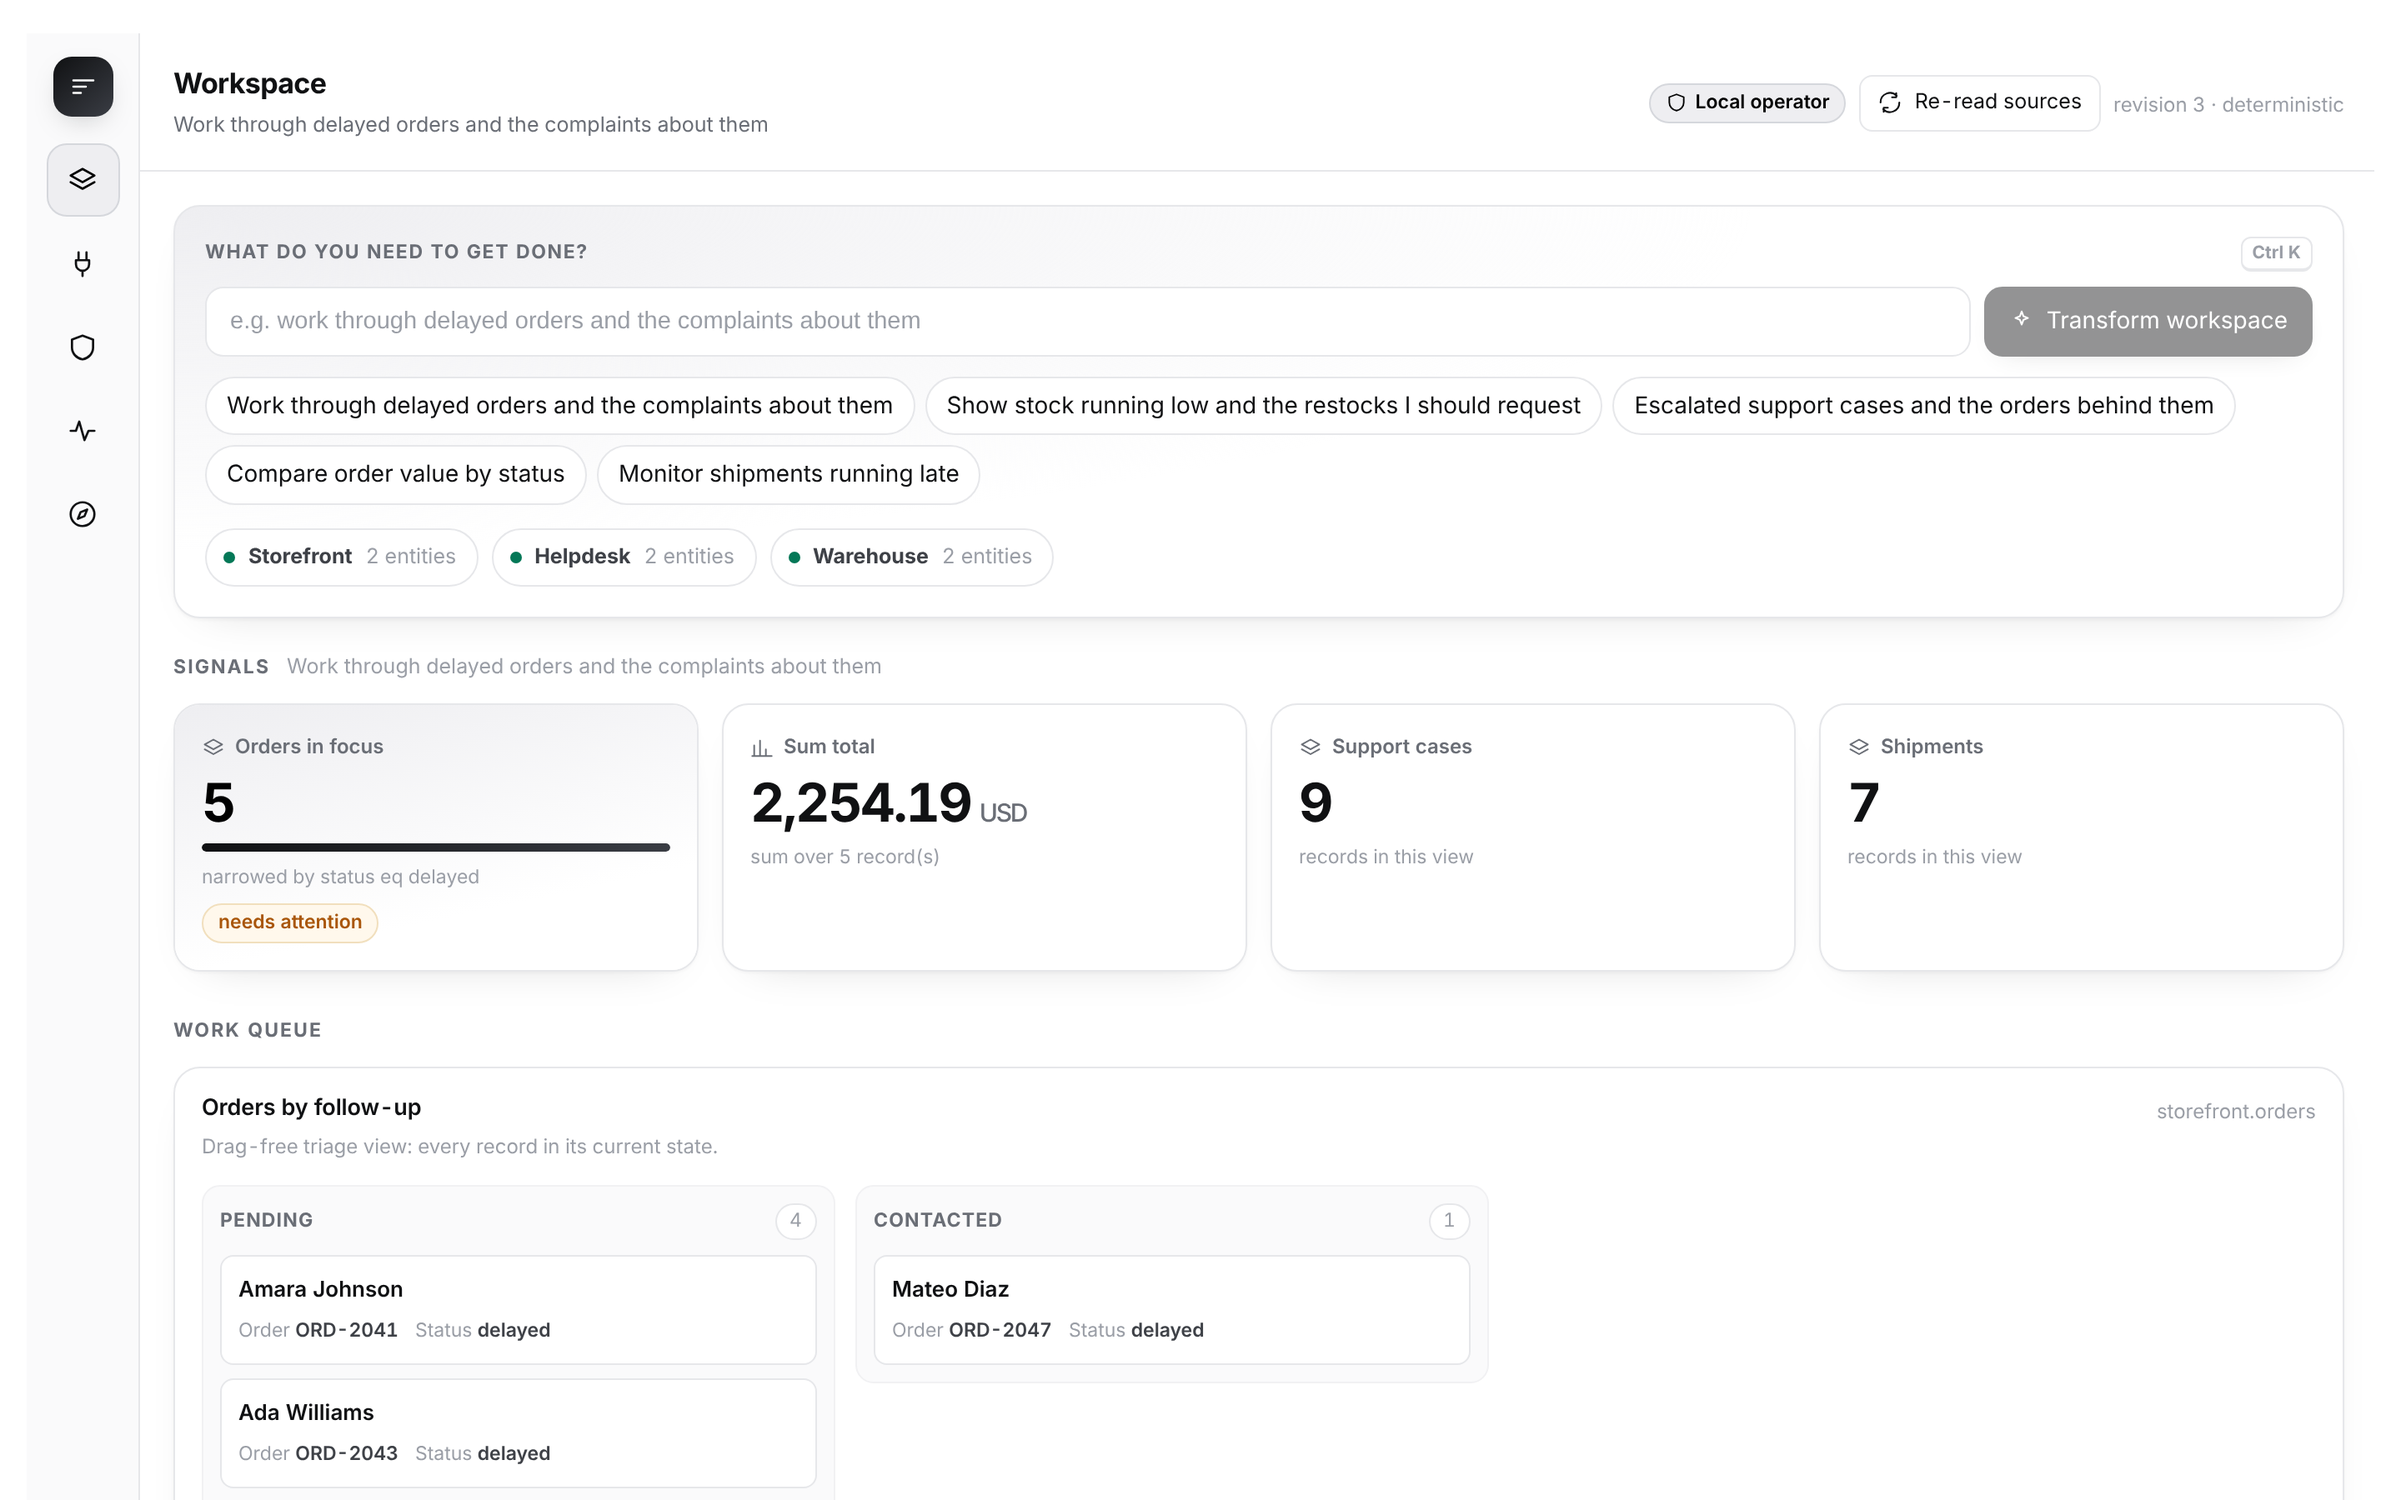
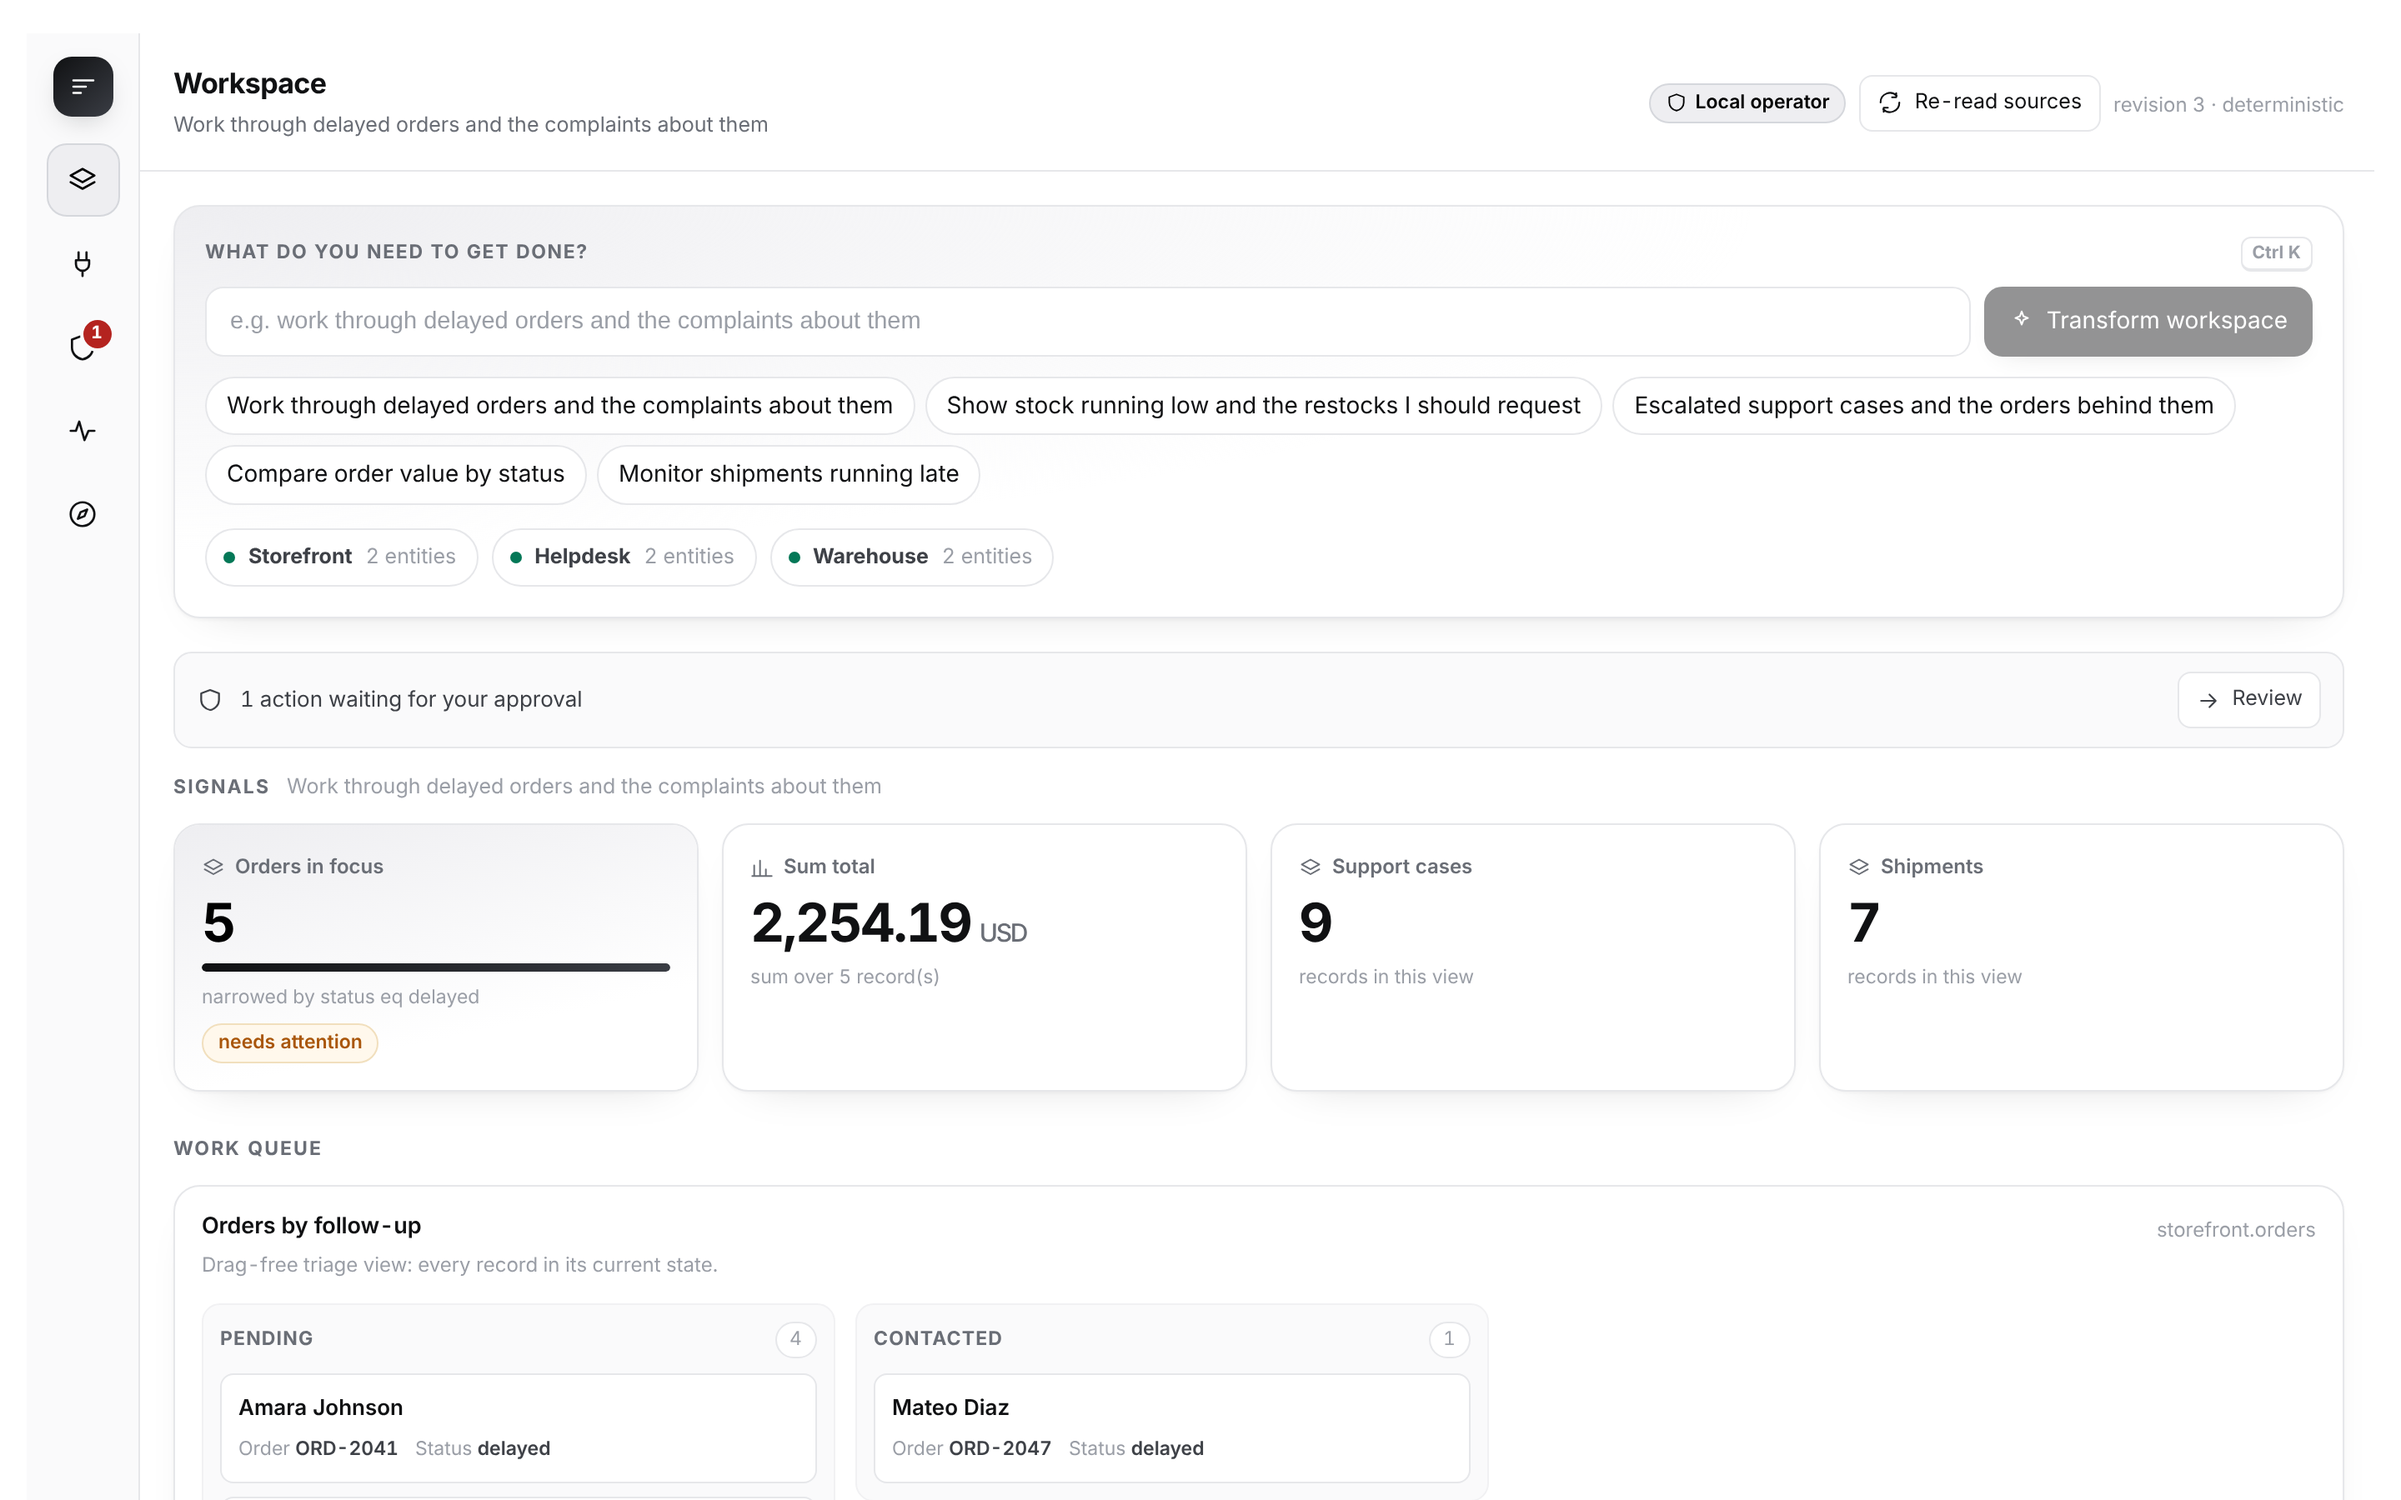
Refresh listing assets and add the catalog submission kit
- Recapture every screenshot from the current bundle. The hero is the
  Approvals view in the real Hermes dashboard; the catalog card is the
  same view, since a change waiting for a person is the point.
- capture_assets.cjs no longer depends on prior state: it composes the
  workspace and leaves one proposal pending through the UI.
- docs/SUBMISSION.md walks through the catalog PR; docs/CATALOG_PR.md is
  the PR description, following the hermes-agent template, with the
  rule 13 disclosures. prepare_catalog_entry.py stamps both with the SHA.

Claude-Session: https://claude.ai/code/session_018sJarubhtnJjhXULd1LRkV

diff --git a/scripts/prepare_catalog_entry.py b/scripts/prepare_catalog_entry.py
@@ -6,6 +6,7 @@ submission time is exactly when it gets done wrong, so:
 
     python scripts/prepare_catalog_entry.py            # uses HEAD, prints the entry
     python scripts/prepare_catalog_entry.py --write    # also writes plugin-catalog-morph.yaml
+                                                       # and plugin-catalog-pr-body.md
 
 Copy the output into hermes-agent as plugin-catalog/morph.yaml in your PR.
 It refuses to stamp a commit that is not pushed, because the catalog CI clones
@@ -85,6 +86,12 @@ def main(argv: list[str] | None = None) -> int:
         out = ROOT / "plugin-catalog-morph.yaml"
         out.write_text(text, encoding="utf-8")
         print(f"\n→ wrote {out}", file=sys.stderr)
+        template = ROOT / "docs" / "CATALOG_PR.md"
+        if template.is_file():
+            body = ROOT / "plugin-catalog-pr-body.md"
+            body.write_text(template.read_text(encoding="utf-8").replace("<sha>", sha),
+                            encoding="utf-8")
+            print(f"→ wrote {body} (paste it as the PR description)", file=sys.stderr)
     print(f"\n→ pinned {sha}", file=sys.stderr)
     print(f"→ open the PR against NousResearch/hermes-agent adding "
           f"plugin-catalog/morph.yaml", file=sys.stderr)

diff --git a/docs/CATALOG_PR.md b/docs/CATALOG_PR.md
@@ -1,0 +1,82 @@
+## What does this PR do?
+
+Adds one catalog entry, `plugin-catalog/morph.yaml`, for **MORPH** — an approval gate
+between the agent and the APIs it can write to.
+
+Connect a GitHub repository (`hermes morph connect github owner/name`) or any service
+that publishes an OpenAPI document. MORPH learns from the schema what can be read and
+what can be safely changed. The agent gets tools to read and to *propose*; a person
+approves each change in the dashboard, seeing the exact before and after; MORPH writes
+it, then re-reads the record from the API and reports it verified only if it matches
+what was promised. Every proposal, approval and result goes into a hash-chained log.
+
+I am the owner of the plugin repository (rule 5). Pinned commit:
+https://github.com/timioni001/morph-hermes/tree/<sha>
+
+**Hermes surfaces used** — all public: 7 tools (`ctx.register_tool`), 3 hooks
+(`on_session_start`, `pre_tool_call`, `post_tool_call`), a dashboard tab
+(`dashboard/manifest.json` + `plugin_api.py`), a `/morph` slash command, a
+`hermes morph` CLI command, a system prompt section and 3 skills. No middleware, no
+Desktop plugin, no core overrides, no Python dependencies of its own.
+
+**Disclosures (rule 13)**
+
+- **Network** — outbound HTTPS only to the services the operator connects, including
+  `api.github.com` when a repository is connected. Hosts are allowlisted; private,
+  link-local, reserved and cloud-metadata addresses are refused and re-checked at
+  connect time; loopback needs an explicit opt-in; redirects are never followed.
+- **Credentials (rule 11)** — configuration stores environment-variable *names* only.
+  Tokens are read with `agent.secret_scope.get_secret` at call time and never logged,
+  stored or returned. MORPH never reads `.env`, `auth.json` or any credential store.
+  For the optional offline sandbox, `hermes morph up` stores the practice services'
+  locally generated tokens through the published `save_env_values` helper.
+- **Approvals (rule 12)** — MORPH adds an approval step of its own and does not touch
+  Hermes's. There is no tool that approves; the agent is never given the confirmation
+  token; `hermes morph approve` refuses without an interactive terminal, so it cannot
+  be driven from cron or the gateway.
+- **Background processes** — none by default. Only if the operator runs
+  `hermes morph connect sandbox` and then `hermes morph up`, three practice services
+  bundled in the repository start on loopback.
+- **Model use** — interface planning calls the host model through `ctx.llm` with schema
+  only, never a record value, and falls back to a deterministic composer.
+- **Stored data** — connection list, workspaces, pending proposals, read cursors and
+  the audit log, all in the plugin data directory. Nothing is read outside it.
+- **Telemetry** — none. **Shell commands** — none. **Self-updating code** — none.
+
+## Related Issue
+
+None — new catalog entry.
+
+## Type of Change
+
+- [x] ✨ New feature (non-breaking change that adds functionality)
+
+## Changes Made
+
+- `plugin-catalog/morph.yaml` — new entry, pinned to `<sha>`.
+
+## How to Test
+
+1. `git clone https://github.com/timioni001/morph-hermes && cd morph-hermes && git checkout <sha>`
+2. `hermes plugins validate . --install-deps` — passes, `security scan — safe`.
+3. `ln -s "$PWD" ~/.hermes/plugins/morph && hermes plugins enable morph`
+4. `hermes morph connect sandbox && hermes morph up`, then `hermes dashboard` → **MORPH**.
+   Propose a change from the Workspace view, approve it under **Approvals**, and see it
+   verified. (Or `hermes morph connect github owner/name` with a `GITHUB_TOKEN`.)
+
+Tested on Linux, Hermes Agent v0.23.0.
+
+## Checklist
+
+- [x] I searched existing PRs and catalog entries; there is no `morph` entry.
+- [x] This PR contains only the one catalog file.
+- [x] `hermes plugins validate --install-deps` passes at the pinned commit.
+- [x] `requires_hermes` (`>=0.19`) is declared in both the entry and `plugin.yaml`.
+- [x] The `capabilities:` block matches what the plugin registers at the pinned commit.
+
+## Screenshots / Logs
+
+![Approvals inside the Hermes dashboard](https://raw.githubusercontent.com/timioni001/morph-hermes/<sha>/docs/assets/morph-in-hermes.png)
+![Workspace](https://raw.githubusercontent.com/timioni001/morph-hermes/<sha>/docs/assets/workspace.png)
+![Connections](https://raw.githubusercontent.com/timioni001/morph-hermes/<sha>/docs/assets/connections.png)
+![Activity](https://raw.githubusercontent.com/timioni001/morph-hermes/<sha>/docs/assets/activity.png)

diff --git a/docs/SUBMISSION.md b/docs/SUBMISSION.md
@@ -1,0 +1,41 @@
+# Submitting MORPH
+
+Three things go out: the catalog PR, the demo video, and the hackathon form.
+
+## 1. The catalog PR
+
+The rules are in Hermes's own docs:
+[Submitting to the plugin catalog](https://hermes-agent.nousresearch.com/docs/developer-guide/plugins/catalog-submission)
+and `plugin-catalog/README.md` in `NousResearch/hermes-agent`. In short: one YAML file,
+a full 40-character commit SHA, a public repository, submitted by the repository's
+owner, with disclosures in the PR description.
+
+1. **The repository must be public**, and the commit you pin must be on it. Merge the
+   work to `main` first so the pinned commit is also what the repository front page
+   shows.
+2. Stamp the entry and the PR description with that commit:
+
+   ```bash
+   python scripts/prepare_catalog_entry.py --write
+   ```
+
+   This writes `plugin-catalog-morph.yaml` and `plugin-catalog-pr-body.md` (both
+   git-ignored). It refuses a commit that is not pushed.
+3. Fork `NousResearch/hermes-agent`, add the first file as `plugin-catalog/morph.yaml`
+   — that one file and nothing else — and open a PR with the second as its description.
+   Suggested title: `feat(catalog): add morph`.
+4. Catalog CI clones the repository at the pinned SHA and runs
+   `hermes plugins validate --install-deps`. `make validate-ci` runs the same locally.
+5. Any later change to the plugin means a new commit, so re-run step 2 and push the
+   new SHA to the same PR.
+
+## 2. The video
+
+`docs/DEMO_VIDEO.md` has the shot list. It needs a scratch GitHub repository with a
+few open issues and a `GITHUB_TOKEN` in your Hermes environment.
+
+## 3. The form and the post
+
+Post the video on X tagging @NousResearch (a caption is at the end of
+`docs/DEMO_VIDEO.md`), then submit the repository, the catalog PR link and the post at
+<https://form.typeform.com/to/FwJLvOln>.

diff --git a/README.md b/README.md
@@ -29,6 +29,9 @@ and it derives what can be read and what can be safely changed from the schema a
 
 ![MORPH inside the Hermes dashboard](docs/assets/morph-in-hermes.png)
 
+<sub>A change waiting for a person, in the real Hermes dashboard. Shown with the offline
+sandbox connected; a GitHub repository looks the same, with issues in place of orders.</sub>
+
 ---
 
 ## Contents
@@ -398,6 +401,10 @@ suite that executes and a contract that was read.
   and 3 hooks; `hermes plugins validate` passes every check with `security scan — safe`
   and no cautions; `hermes morph doctor` finds all three applications reachable with the
   plugin data directory writable.
+- **`hermes morph connect` in that same Hermes**: `connect sandbox` then `up` brought
+  three services up and `doctor` reported healthy; `connect github` against the real
+  GitHub API connected a public repository read-only with no token, and a repository
+  that does not answer was refused with the configuration left untouched.
 - **The MORPH tab renders in the real Hermes web dashboard** — in the navigation under
   Plugins, mounted through the host's own `window.__HERMES_PLUGIN_SDK__`, API served from
   `/api/plugins/morph/`, live values from all three applications, no console errors.
@@ -470,7 +477,8 @@ dev extra is for the tests and the demo.
 | `docs/ARCHITECTURE.md` | the eight stages in detail |
 | `docs/CONNECTORS.md` | the adapter contract and worked examples |
 | `docs/SECURITY.md` | the threat model and what is enforced where |
-| `docs/DEMO.md` | what the demo proves, step by step |
+| `docs/DEMO.md` | what the offline sandbox run proves, step by step |
+| `docs/SUBMISSION.md` | the catalog PR, step by step |
 | `docs/WSL.md` | Windows/WSL2 runbook |
 
 ---
